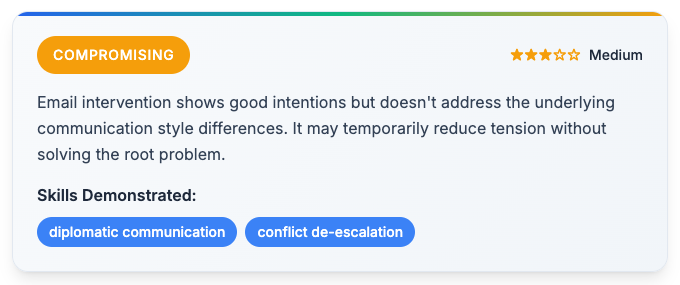
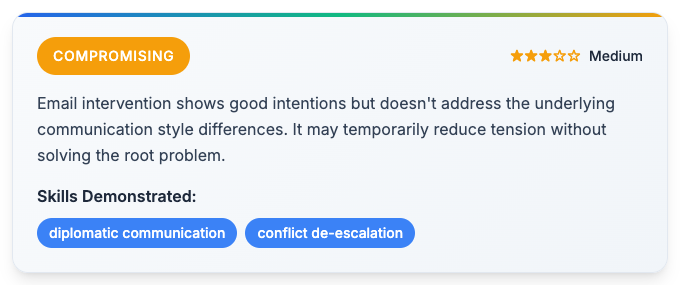
Conflict trainer page: new artwork screenshots and an ending card

diff --git a/src/content/projects/conflict-trainer.ts b/src/content/projects/conflict-trainer.ts
@@ -42,6 +42,7 @@ const conflictTrainer: ProjectBase = {
     'Feedback after every choice built on the Thomas-Kilmann model: the strategy used (collaborating, compromising, competing, accommodating or avoiding), a rating of how well it worked, a short explanation, and the skills it shows',
     'Every scenario branches to several different endings: 14 in the beginner scenario, 14 in the intermediate and 11 in the advanced',
     'Each scene shows the people involved, with their names and roles',
+    'Each ending names the outcome (positive, mixed or difficult) and asks a reflection question, and learners can go back and try another choice',
     'A "Go Back" button, so learners can return to a decision and try a different strategy',
     'Progress saves in the browser, so a scenario can be finished later',
     'Each scenario is a separate data file, so a new one can be written without changing the code'
@@ -54,10 +55,10 @@ const conflictTrainer: ProjectBase = {
   screenshots: [
     {
       src: '/images/projects/conflict-trainer-scene.png',
-      alt: 'A scenario screen: an illustrated office meeting room with portraits of Alex (Senior Analyst) and Jordan (Project Coordinator) below it, beside the story text, "You notice tension building in your team. Alex sent Jordan a brief email..." and the first response choices.',
+      alt: 'A scenario screen: an illustrated meeting room with windows, a timeline board and a round table, with portraits of Alex (Senior Analyst) and Jordan (Project Coordinator) below it, beside the story text, "You notice tension building in your team. Alex sent Jordan a brief email..." and the first response choices.',
       caption: 'Each scene sets up the situation, shows who is involved, and offers several ways to respond.',
       width: 1200,
-      height: 750
+      height: 800
     },
     {
       src: '/images/projects/conflict-trainer-feedback.png',
@@ -67,11 +68,18 @@ const conflictTrainer: ProjectBase = {
       height: 285
     },
     {
+      src: '/images/projects/conflict-trainer-ending.png',
+      alt: 'Ending card: Ending reached, Positive outcome. "Communication Bridge Built: Alex and Jordan now have a better understanding of each other\'s communication styles, and the team is more cohesive." A Reflect box asks "How might you apply collaborative problem-solving to other workplace communication challenges?" Buttons: Go back and try another choice, Choose another scenario.',
+      caption: 'Every ending names the outcome and asks a reflection question.',
+      width: 1112,
+      height: 410
+    },
+    {
       src: '/images/projects/conflict-trainer-home.png',
       alt: 'Scenario menu: The Email Misunderstanding (beginner, 5-8 minutes), The Resource Competition (intermediate, 8-12 minutes) and The Performance Gap (advanced, 10-15 minutes).',
       caption: 'Three scenarios, from beginner to advanced.',
       width: 1200,
-      height: 750
+      height: 800
     }
   ]
 };
